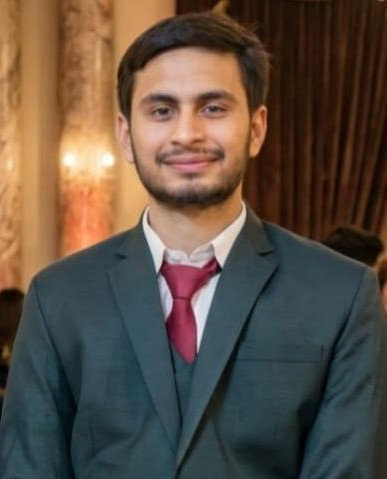
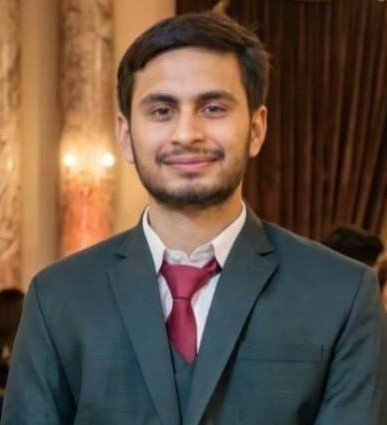
More changes, disabled light mode

diff --git a/src/pages/dashboard/HomePage.tsx b/src/pages/dashboard/HomePage.tsx
@@ -369,9 +369,6 @@ export default function HomePage() {
                 ) : (
                   <div className="mt-3 rounded-xl border border-white/10 bg-black/20 p-3">
                     <p className="text-sm font-bold text-white">Not announced yet</p>
-                    <p className={`mt-1 text-xs ${softText}`}>
-                      Set <code>starOfMonthId</code> in highlights.ts
-                    </p>
                   </div>
                 )}
               </div>
@@ -439,37 +436,154 @@ export default function HomePage() {
       </section>
 
       {/* Vision / Mission */}
-      <section className={`border-t ${lineColor} px-6 py-24 lg:px-8`}>
-        <div className="mx-auto grid max-w-7xl gap-14 lg:grid-cols-2">
-          <SectionLabel
-            eyebrow="Our vision and mission"
-            title="Build cloud skills that turn student ideas into deployed products"
-            copy="Bringing cloud and tech opportunites to Multan. Our group helps students learn AWS, collaborate across campuses, ship practical portfolios, and grow into cloud-ready engineers."
-            mutedText={mutedText}
-          />
-          <div className="grid gap-6 sm:grid-cols-2">
-            {[
-              ["01", "Hands-on AWS labs", "Guided labs around compute, storage, serverless APIs, identity, and deployment workflows."],
-              ["02", "Portfolio-first learning", "Every workshop should lead to a project, GitHub commit, demo, or published case study."],
-              ["03", "Community leadership", "Members grow by mentoring juniors, hosting sessions, and supporting campus events."],
-              ["04", "Career readiness", "The platform highlights skills, points, projects, and contributions for internships and roles."],
-            ].map(([n, t, c]) => (
-              <div key={n} className="border-t border-violet-400/60 pt-5">
-                <p className="text-sm font-black text-violet-400">{n}</p>
-                <h3 className="mt-3 text-xl font-black tracking-[-0.04em]">{t}</h3>
-                <p className={`mt-3 text-sm leading-6 ${mutedText}`}>{c}</p>
-              </div>
-            ))}
+   {/* Vision / Mission - Enhanced */}
+<section
+  className={`relative border-t ${lineColor} overflow-hidden px-6 py-24 lg:px-8 lg:py-32`}
+  aria-labelledby="vision-mission-heading"
+>
+  {/* Layered background */}
+  <div className="absolute inset-0 bg-gradient-to-br from-violet-500/40 via-black to-violet-500/40 dark:from-slate-900/95 via-slate-900/90 dark:to-violet-950/80" />
+  
+  {/* Animated gradient orbs */}
+  <div className="absolute -right-32 -top-32 h-96 w-96 rounded-full bg-gradient-to-br from-violet-300/40 to-fuchsia-300/30 blur-3xl dark:from-violet-700/20 dark:to-fuchsia-700/15 animate-pulse pointer-events-none" />
+  <div className="absolute -bottom-32 -left-32 h-96 w-96 rounded-full bg-gradient-to-br from-fuchsia-300/40 to-violet-300/30 blur-3xl dark:from-fuchsia-700/20 dark:to-violet-700/15 animate-pulse pointer-events-none" style={{ animationDelay: '1s' }} />
+
+  {/* Subtle grid pattern */}
+  <div 
+    className="absolute inset-0 opacity-[0.03] dark:opacity-[0.05]"
+    style={{
+      backgroundImage: 'radial-gradient(circle at 1px 1px, currentColor 1px, transparent 0)',
+      backgroundSize: '40px 40px'
+    }}
+  />
+
+  <div className="relative z-10 mx-auto max-w-7xl">
+    {/* Section Header */}
+    <div className="mb-16 text-center lg:mb-20">
+      <div className="mb-6 inline-flex items-center gap-3">
+        <div className="h-px w-12 bg-gradient-to-r from-transparent to-violet-500 dark:from-transparent dark:to-violet-500" />
+        <span className="text-[11px] font-black uppercase bg-violet-100 rounded-full px-3 py-1 text-violet-600 dark:bg-violet-900/40 dark:text-violet-400">
+                      <h2 className="text-xl bg-violet-100 rounded-full px-2 py-1 font-black text-violet-600 dark:text-white">Our Vision</h2>
+        </span>
+        <div className="h-px w-12 bg-gradient-to-l from-transparent to-violet-500 dark:from-transparent dark:to-violet-500" />
+      </div>
+
+      <h2
+        id="vision-mission-heading"
+        className="mx-auto max-w-4xl text-4xl font-extrabold tracking-tight text-white sm:text-5xl lg:text-6xl dark:text-white"
+      >
+        BZU's first student cloud builder community in Multan
+      </h2>
+      
+      <p className="mx-auto mt-6 max-w-2xl text-lg leading-8 text-white dark:text-slate-300">
+        Turning student ideas into deployed AWS products — right here in our city, for the first time ever.
+      </p>
+    </div>
+
+    {/* Main Content Grid */}
+    <div className="grid items-center gap-12 lg:grid-cols-2 lg:gap-16">
+      <div className="space-y-8">
+        {/* Mission Statement Card */}
+        <div className="rounded-2xl border border-violet-200/60 bg-white/[0.03] p-8 shadow-xl shadow-violet-500/5 backdrop-blur-sm dark:border-violet-700/30 dark:bg-slate-800/40 dark:shadow-violet-900/20">
+          <div className="mb-4 flex items-center gap-3">
+                  <div className="h-px w-12 bg-gradient-to-l from-transparent to-violet-500 dark:from-transparent dark:to-violet-500" />
+            <h3 className="text-xl bg-violet-100 rounded-full px-2 py-1 font-black text-violet-600 dark:text-white">Our Mission</h3>
+                  <div className="h-px w-12 bg-gradient-to-l from-transparent to-violet-500 dark:from-transparent dark:to-violet-500" />
+    
           </div>
-               <Sticker
-      isDark={isDark}
-      src="/images/stickers/hero.jpeg"
-      className="left-90 bottom-4 h-70 w-70 opacity-0"
-      floatDelay={0.05}
-      tilt={-4}
-    />
+          
+          <p className="text-base leading-7 text-white dark:text-white">
+            We're a <strong className="text-violet-300 dark:text-white">Bahauddin Zakariya University (BZU)</strong> student-led builder group
+            a<span className="inline-flex items-center gap-1-full px-2 py-1 text-sm font-bold text-violet-300 dark:bg-violet-300 dark:text-violet-300">
+            First in Multan
+            </span>created to bring real cloud and AWS learning opportunities directly to students in our city.
+          </p>
+
+          <p className="mt-4 text-base leading-7 text-white dark:text-white">
+            We help students <strong className="text-violet-300 dark:text-white">master AWS services</strong> (EC2, S3, Lambda, IAM, CloudFormation, Amplify, CDK, and more), 
+            collaborate across departments and campuses, and ship <strong className="text-violet-300 dark:text-white">production-grade portfolio projects</strong> — 
+            not just tutorials.
+          </p>
         </div>
-      </section>
+
+        {/* CTA Buttons */}
+        <div className="flex flex-wrap gap-4 pt-4">
+          <a
+            href="#team"
+            className="group inline-flex items-center gap-2 rounded-xl bg-gradient-to-r from-violet-600 to-fuchsia-600 px-7 py-3.5 font-bold text-white shadow-lg shadow-violet-600/30 transition hover:shadow-xl hover:shadow-violet-600/40 hover:from-violet-700 hover:to-fuchsia-700"
+          >
+           View Our Team
+            <svg className="h-4 w-4 transition group-hover:translate-x-1" fill="none" viewBox="0 0 24 24" stroke="currentColor" strokeWidth={2}>
+              <path strokeLinecap="round" strokeLinejoin="round" d="M13 7l5 5m0 0l-5 5m5-5H6" />
+            </svg>
+          </a>
+        </div>
+      </div>
+
+      {/* RIGHT: Visual Element */}
+      <div className="flex items-center justify-center lg:justify-end">
+        <div className="relative">
+          {/* Background decorative elements */}
+          <div className="absolute -inset-8 rounded-full bg-gradient-to-br from-violet-200/40 to-fuchsia-200/40 blur-2xl dark:from-violet-800/20 dark:to-fuchsia-800/20" />
+          
+          {/* Main image container */}
+          <div className="relative">
+            {/* Rotating border */}
+            <div className="absolute -inset-3 rounded-full border-2 border-dashed border-violet-300/50 dark:border-violet-600/30 animate-[spin_30s_linear_infinite]" />
+            <div className="absolute -inset-6 rounded-full border border-violet-200/30 dark:border-violet-700/20" />
+            
+            {/* Image */}
+            <img
+              src="/images/AWS-MembersPics/Mehdi Hassan.jpeg"
+              alt="Mehdi Hassan, leader of AWS Student Builder Group BZU - first student AWS community in Multan"
+              className="relative h-72 w-72 rounded-full border-4 border-violet-200 object-cover shadow-2xl sm:h-80 sm:w-80 lg:h-96 lg:w-96 dark:border-violet-700"
+            />
+            
+            {/* Floating badges */}
+            <div className="absolute -right-4 top-8 rounded-full bg-white px-4 py-2 text-xs font-black text-violet-700 shadow-xl dark:bg-slate-800 dark:text-violet-300">
+              <div className="flex items-center gap-2">
+                <svg className="h-4 w-4" fill="currentColor" viewBox="0 0 20 20">
+                  <path fillRule="evenodd" d="M10 18a8 8 0 100-16 8 8 0 000 16zm3.707-9.293a1 1 0 00-1.414-1.414L9 10.586 7.707 9.293a1 1 0 00-1.414 1.414l2 2a1 1 0 001.414 0l4-4z" clipRule="evenodd" />
+                </svg>
+                BZU Multan
+              </div>
+            </div>
+
+            <Sticker  isDark={isDark}
+      src="/images/stickers/cloud.png"
+      className="-left-9 top-15 h-24 w-24 opacity-20"
+      floatDelay={0.05}
+      tilt={-6}
+    />
+         
+            <div className="absolute -bottom-4 -left-4 rounded-full bg-gradient-to-r from-violet-600 to-fuchsia-600 px-4 py-2 text-xs font-black text-white shadow-lg">
+              <div className="flex items-center gap-2">
+                <svg className="h-4 w-4" fill="none" viewBox="0 0 24 24" stroke="currentColor" strokeWidth={2}>
+                  <path strokeLinecap="round" strokeLinejoin="round" d="M13 10V3L4 14h7v7l9-11h-7z" />
+                </svg>
+                Leader
+              </div>
+            </div>
+          </div>
+
+          {/* Stats cards floating */}
+         
+<Sticker  isDark={isDark}
+      src="/images/stickers/aws.png"
+      className="-left-9 bottom-15 h-24 w-24 opacity-20"
+      floatDelay={0.05}
+      tilt={-6}
+    />
+          <div className="absolute -right-12 top-24 rounded-xl border border-fuchsia-200/60 bg-white/90 px-4 py-3 shadow-lg backdrop-blur-sm dark:border-fuchsia-700/30 dark:bg-slate-800/90">
+            <p className="text-2xl font-black text-fuchsia-700 dark:text-fuchsia-300">1st</p>
+            <p className="text-xs font-bold text-slate-600 dark:text-slate-400">In Multan</p>
+          </div>
+        </div>
+      </div>
+    </div>
+
+  </div>
+</section>
 
       {/* Latest notices */}
       <section className={`border-t ${lineColor} px-6 py-24 lg:px-8`}>

diff --git a/src/layouts/DashboardLayout.tsx b/src/layouts/DashboardLayout.tsx
@@ -95,7 +95,7 @@ export default function DashboardLayout() {
               </button>
             )}
 
-            <button
+            {/* <button
               onClick={toggle}
               className={`rounded-full border px-3 py-2 text-[10px] font-black uppercase tracking-[0.14em] transition ${
                 isDark
@@ -104,7 +104,7 @@ export default function DashboardLayout() {
               }`}
             >
               {isDark ? "Light" : "Dark"}
-            </button>
+            </button> */}
           </div>
         </div>
       </header>
